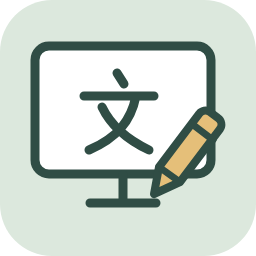
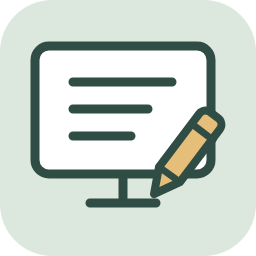
design: represent technical language without a language-specific glyph

Changed region(s): [[0.25, 0.25, 0.6875, 0.625]]

diff --git a/AGENTS.md b/AGENTS.md
@@ -10,7 +10,7 @@
 - 所有 Aegyce 仓库的 `docs/` 只面向外部用户，存放使用说明、用户配置、FAQ 与故障排查等内容；不得包含任何开发过程信息，包括内部设计讨论、开发计划、实现过程、测试记录、发布凭据配置和维护记录。此类材料保存在 Aegyce 内部资料中。
 - 能力说明面向 AI 工具复用；README 不列具体 AI 产品的安装或调用示例，不声称未经验证的兼容性。
 - 插件名称使用 `aesy-<capability>`，各自的版本记录在包内 `plugin.json`。同一已发布版本不覆盖内容；主分支 push 触发市场同步，由市场从已登记来源生成发布副本并记录提交；能力更新不改变 Agent 运行身份或权限。
-- 每个 Skill 的图标须体现自身功能，不能用 Agent 标识或仅换色的通用图标替代；相关任务检查小尺寸辨识度、资源与引用的一致性。图标存放于各 Skill 的 `assets/`，单 Skill 插件可复用，市场副本由同步流程生成。
+- 每个 Skill 的图标须体现自身功能，不能用 Agent 标识或仅换色的通用图标替代；跨语言 Skill 不以单一语言字形或国旗限定功能。相关任务检查小尺寸辨识度、资源与引用的一致性。图标存放于各 Skill 的 `assets/`，单 Skill 插件可复用，市场副本由同步流程生成。
 - 插件内部标识使用小写；显示名称采用 `<Agent>:<capability>`，保留 Agent 正式名称的大小写，如 `Aesy:computer-technical-language`，并明确实际能力。
 - 每个可独立分发的插件携带完整 `LICENSE` 和 `COMMERCIAL-LICENSE.md`；与仓库根目录保持一致，包内引用不得依赖包外文件。
 - 原创内容统一采用 CC BY-NC 4.0；商业用途须另行取得版权所有者的书面授权。保留完整许可证、商业授权说明与 README 双语声明；第三方内容遵循原许可。
